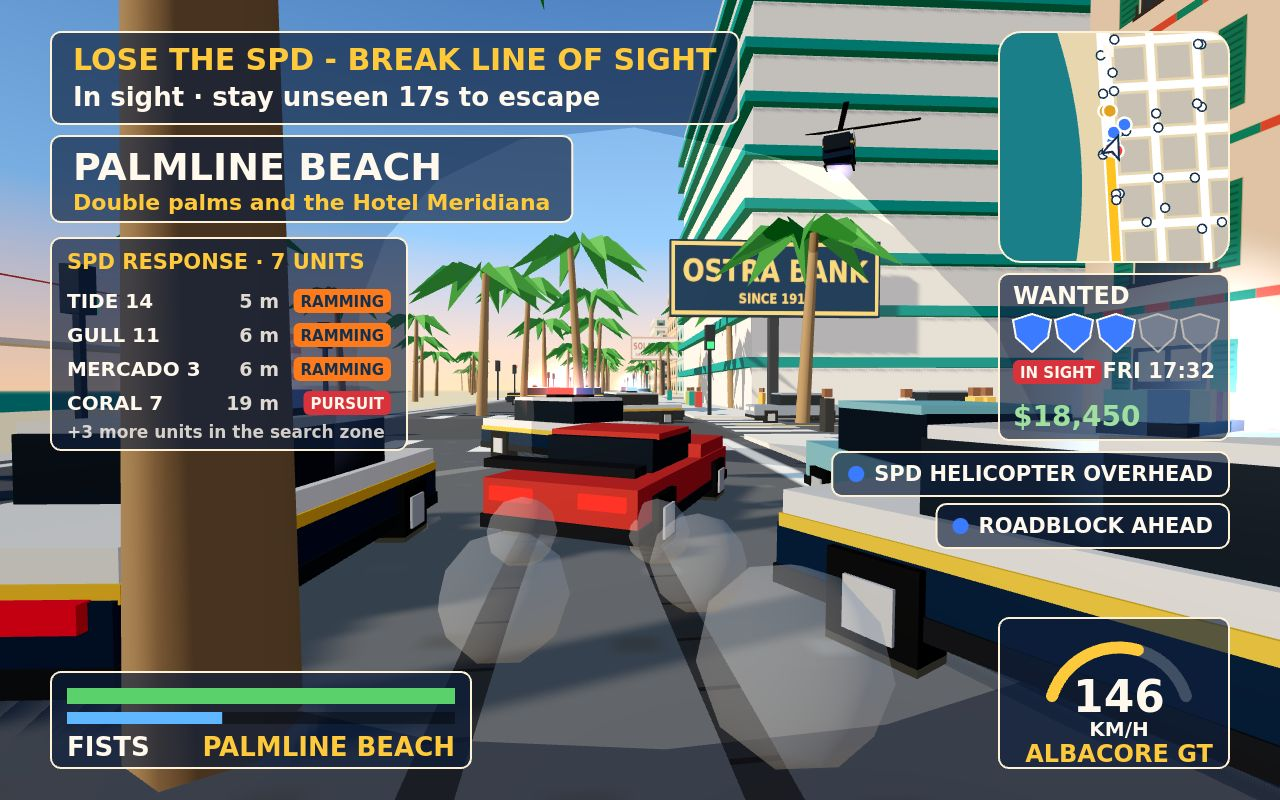
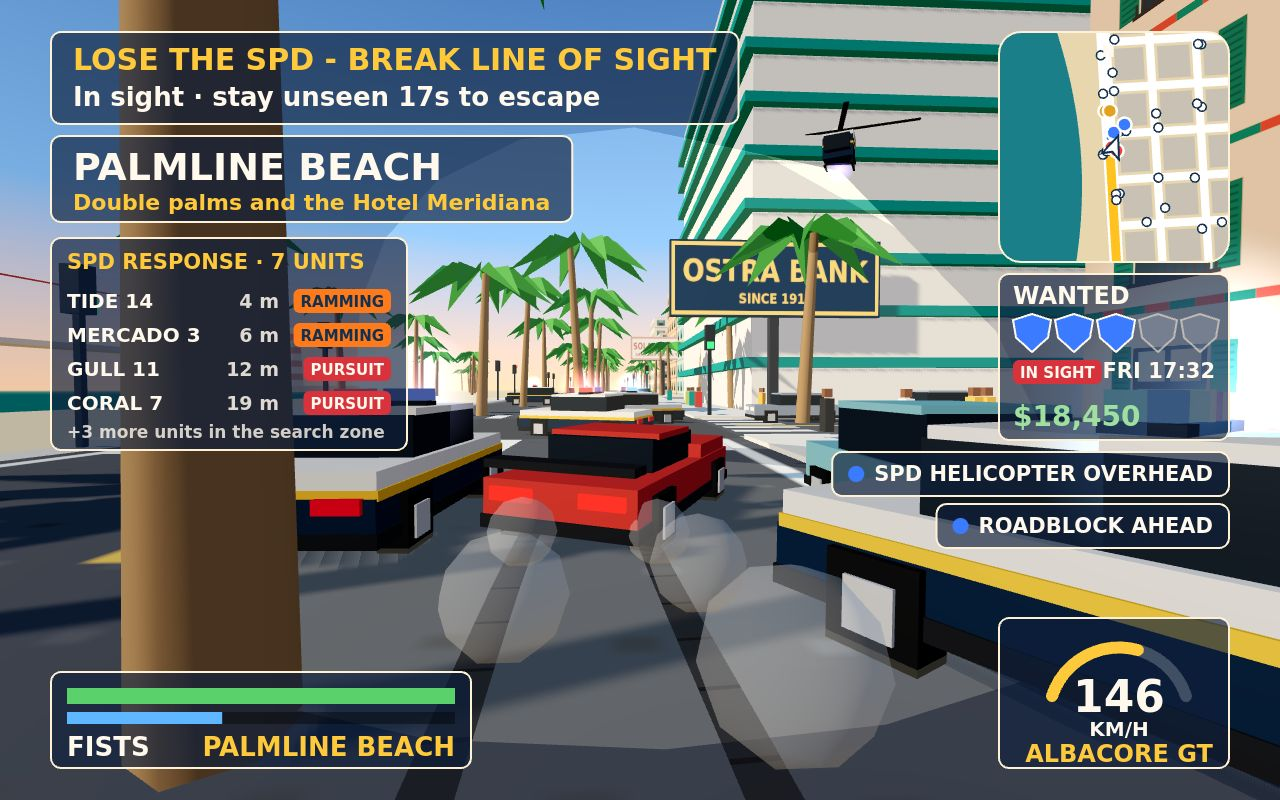
Cover: TIDE 14 staged a little ahead and out so it reads alongside in full, GULL 11 further ahead; re-shot 1-chase.jpg (174.2 KiB), judge sheet rebuilt, notes (dossier 894,629 bytes, byte-identical twice)

diff --git a/game/src/dev/screenshot-scenes.js b/game/src/dev/screenshot-scenes.js
@@ -38,8 +38,8 @@ export const SCENES = {
     hold(['KeyW'], 100);
     // The pursuit closes up around the Albacore: one alongside, two ahead, SKYLARK 1 on its orbit.
     const v = Math.abs(car.speed);
-    pol.place(1, car.x - 3.8, car.z + 1.0, 0, v);
-    pol.place(0, car.x + 3.6, car.z - 10, 0, v - 1);
+    pol.place(1, car.x - 4.2, car.z - 2.5, 0, v);
+    pol.place(0, car.x + 3.8, car.z - 16, 0, v + 1);
     pol.place(2, car.x - 3.8, car.z - 24, 0, v - 2);
     pol.placeHelicopter(car.x + 13.8, car.z - 27.6);
     hold(['KeyW'], 20);

diff --git a/NOTES.md b/NOTES.md
@@ -39,7 +39,8 @@
   3: 4 cruisers + roadblock + helicopter, nearest 69 -> 8 m in 4 s, IN SIGHT), custody (after 2.53 s,
   bail 400, pips 0, respawned on foot at -169,13), perf 152 draw calls / 45,047 triangles / median
   1.1 ms / heap 20 MB in the perf view (171 draw calls with all police and the helicopter up), clean.
-- Originality PASS (25 files). main.ts twice: 32 output files byte-identical, dossier 894,677 bytes.
+- Originality PASS (25 files). main.ts twice: 32 output files byte-identical, dossier 894,629 bytes
+  (after the last cover tweak: TIDE 14 alongside left in full, GULL 11 ahead in PURSUIT).
 - Shots: 1-chase.jpg 174.2 KiB (q80), 2-street.jpg 172.1 KiB (q88), 4-title.jpg 189.6 KiB (q76).
   Judge sheet rebuilt; at 50% the cover reads chase, police, helicopter, WANTED, minimap, banner.
 
@@ -48,8 +49,8 @@
   then the cover banner as STORY 3/5 - THE HARBOR RUN (no mission text in shots until it exists).
 
 ## Bugs / debts (M3a)
-- Cover: the alongside cruisers are cut by the frame edges and hug the camera (their bars are out of
-  frame); the bars that read are on GULL 11 ahead. A median palm trunk fills the left foreground.
+- Cover: MERCADO 3 hugs the right frame edge next to the camera (its bar is out of frame); the bars
+  that read are on GULL 11 and the roadblock ahead. A median palm trunk fills the left foreground.
 - Tyre smoke is still grey low-poly balls; at the low cover camera they sit in front of the car.
 - Police cars do not collide with traffic cars or parked cars (only with buildings and Wren).
 - Level 2 "they shoot" waits for combat (M4); respray not in yet.
